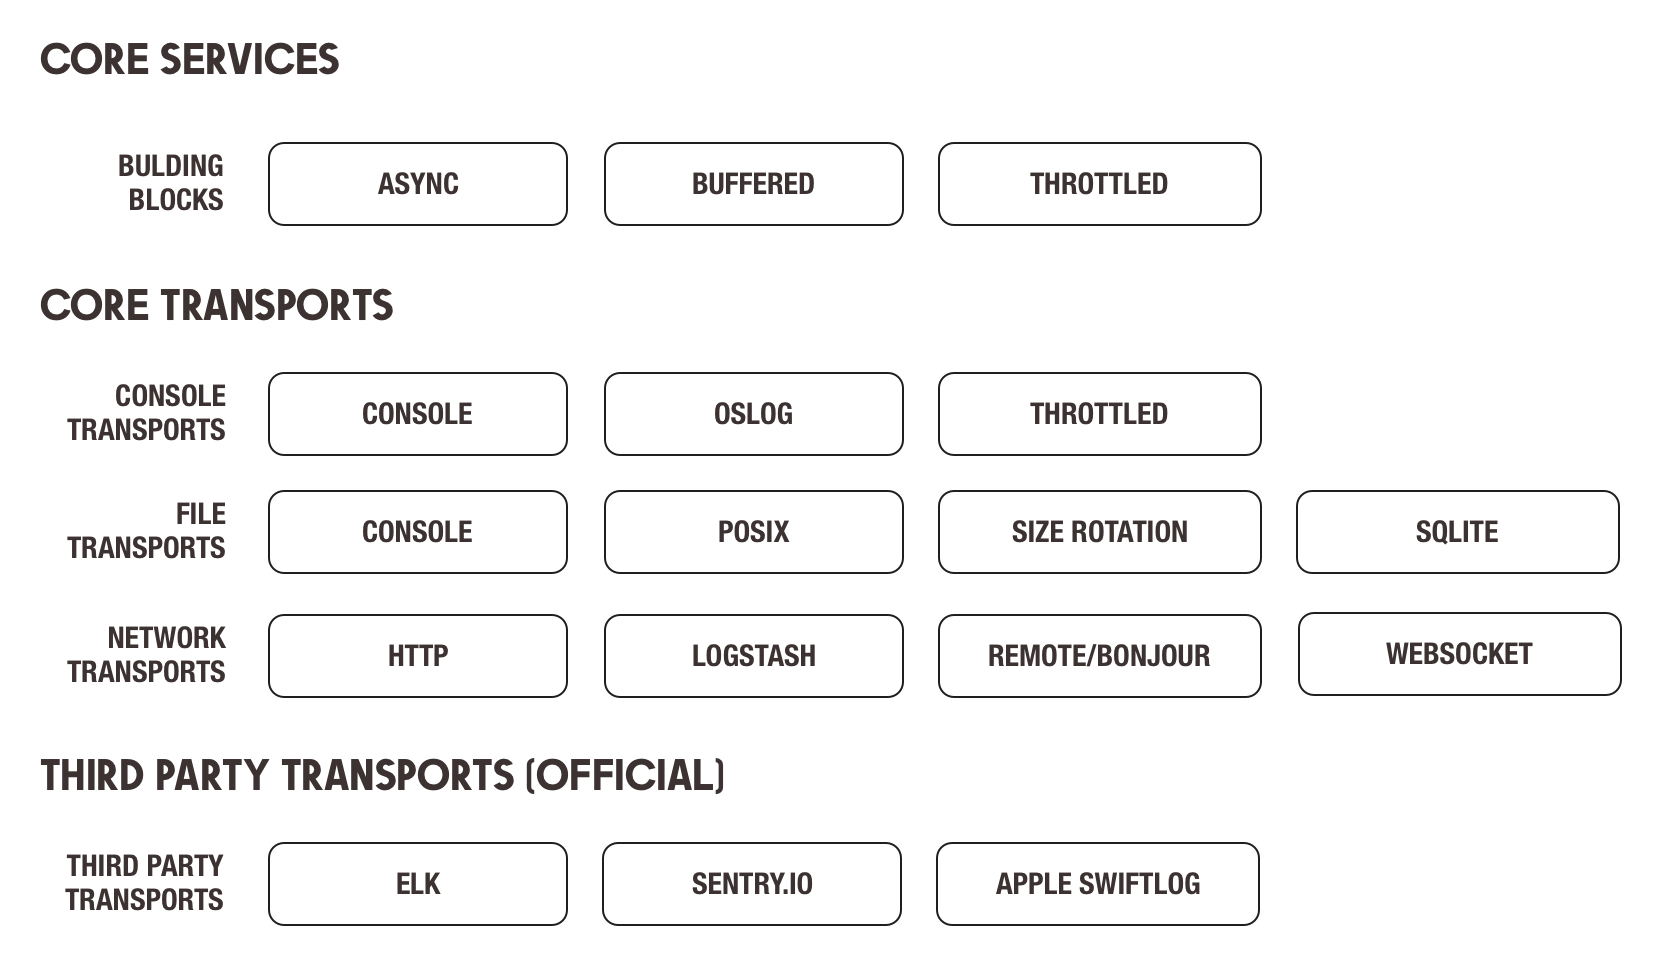
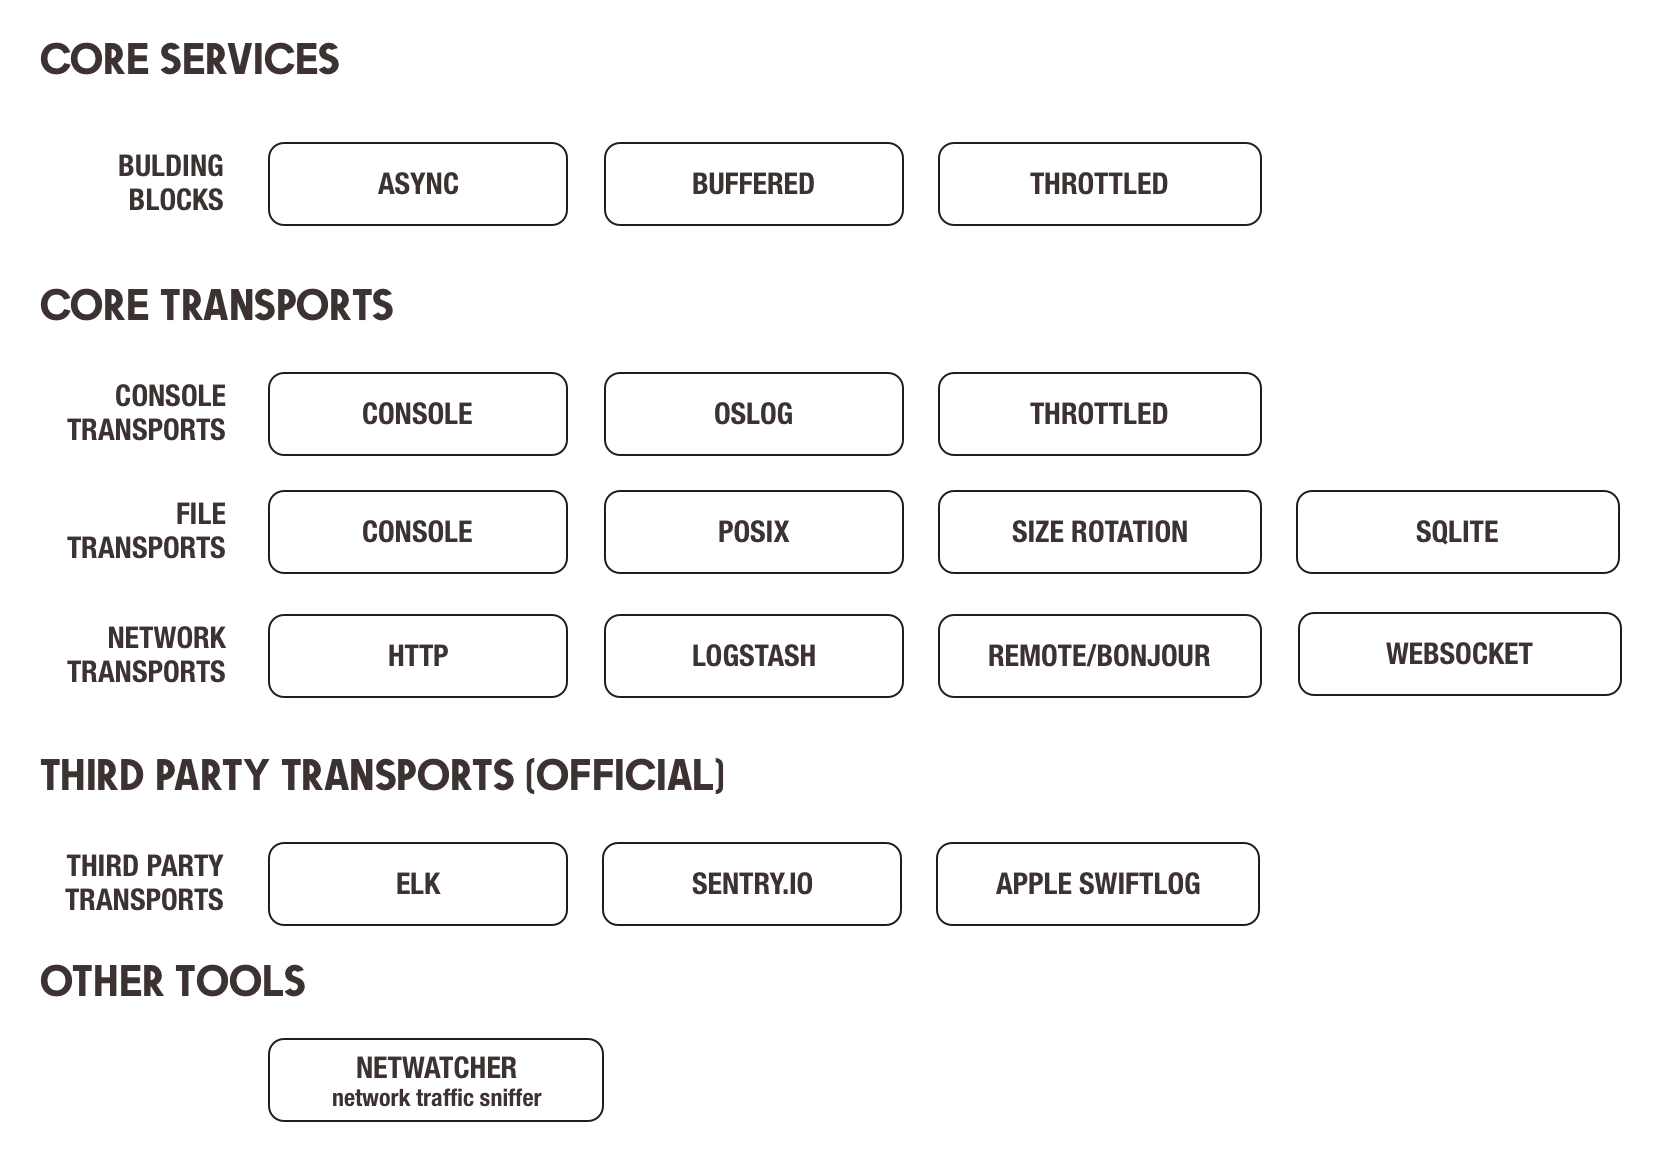
Added netwatcher

diff --git a/README.md b/README.md
@@ -65,6 +65,14 @@ logger.info?.write { // Logs an event with a set of attached details
 
 ## Transports
 
+This the list of transport services officially supported.  
+Third party transports are available into the following separate repositories:
+
+- [Glider-AppleSwiftLog](https://github.com/immobiliare/Glider-AppleSwiftLog) can also work as a backend for [apple/swift-log](https://github.com/apple/swift-log/).
+- [Glider-ELK](https://github.com/immobiliare/Glider-ELK): library provides a logging transport for glider and [ELK](https://www.elastic.co/elastic-stack?ultron=B-Stack-Trials-EMEA-S-Exact&gambit=Stack-ELK&blade=adwords-s&hulk=paid&Device=c&thor=elk%20stack&gclid=Cj0KCQjwjIKYBhC6ARIsAGEds-I1kAzd4o5RdmCR0U4yXPL4QFQXBCn1bRn-MjwZV0fkSXuFIIJ6VcwaAo1AEALw_wcB) stacks.
+- [Glider-Sentry](https://github.com/immobiliare/Glider-Sentry): provides support to post log on [sentry.io](https://sentry.io/welcome/) instances using the native swift sdk.
+- [Glider-NetWatcher](https://github.com/immobiliare/Glider-NetWatcher) offers the ability to capture your app's network traffic (including requests/responses) and redirect them to a specific transport.
+
 <p align="center">
 <picture>
   <source media="(prefers-color-scheme: dark)" srcset="./Documentation/assets/transports-dark.png" width="840">
@@ -131,14 +139,6 @@ The following manual will guide you through using Glider for your project.
     - [WebSocketTransportClient](./Documentation/Transports.md#websockettransportclient)
     - [WebSocketTransportServer](./Documentation/Transports.md#websockettransportserver)
 
-# Third Party Transports
-
-Glider is a lightweight yet extensible library. The following packages are available outside the main core of the library:
-
-- [Glider-AppleSwiftLog](https://github.com/immobiliare/Glider-AppleSwiftLog) can also work as a backend for [apple/swift-log](https://github.com/apple/swift-log/).
-- [Glider-ELK](https://github.com/immobiliare/Glider-ELK): library provides a logging transport for glider and [ELK](https://www.elastic.co/elastic-stack?ultron=B-Stack-Trials-EMEA-S-Exact&gambit=Stack-ELK&blade=adwords-s&hulk=paid&Device=c&thor=elk%20stack&gclid=Cj0KCQjwjIKYBhC6ARIsAGEds-I1kAzd4o5RdmCR0U4yXPL4QFQXBCn1bRn-MjwZV0fkSXuFIIJ6VcwaAo1AEALw_wcB) stacks.
-- [Glider-Sentry](https://github.com/immobiliare/Glider-Sentry): provides support to post log on [sentry.io](https://sentry.io/welcome/) instances using the native swift sdk.
-- [Glider-NetWatcher](https://github.com/immobiliare/Glider-NetWatcher) offers the ability to capture your app's network traffic (including requests/responses) and redirect them to a specific transport.
 # Test Suite
 
 Glider offers an extensive suite of unit tests for Glider Core Logger and third-party packages under the `/Tests` folder.
